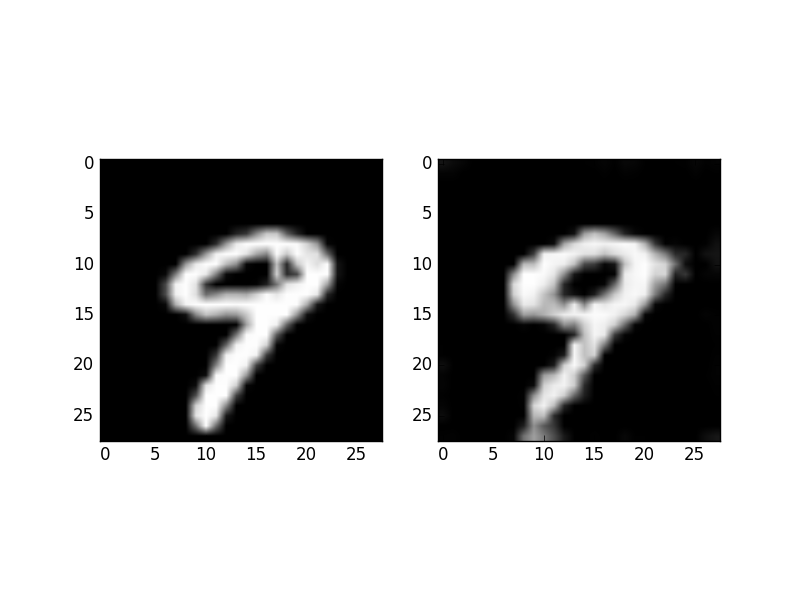
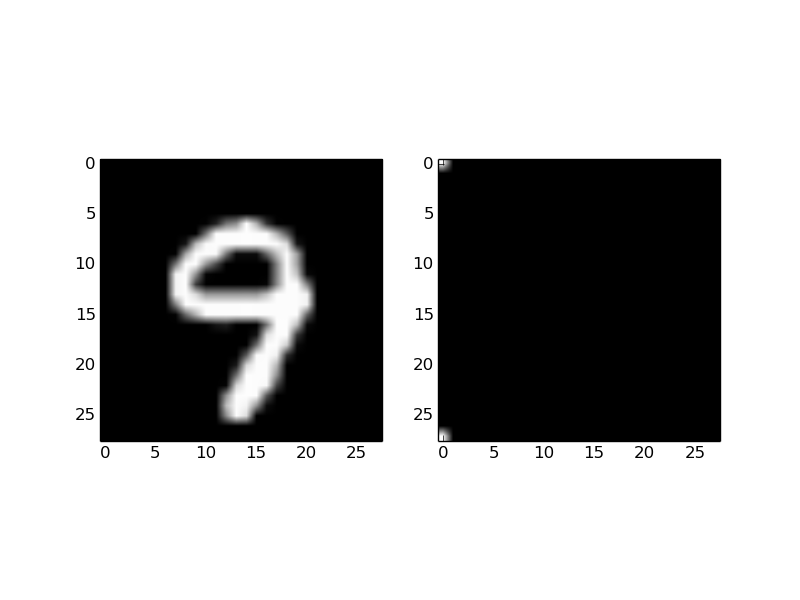
update

diff --git a/examples/autoencoder/autoencoder_other.py b/examples/autoencoder/autoencoder_other.py
@@ -1,0 +1,175 @@
+"""Tutorial on how to create a convolutional autoencoder w/ Tensorflow.
+
+Parag K. Mital, Jan 2016
+"""
+import tensorflow as tf
+import numpy as np
+import math
+from libs.activations import lrelu
+from libs.utils import corrupt
+
+
+# %%
+def autoencoder(input_shape=[None, 784],
+                n_filters=[1, 10, 10, 10],
+                filter_sizes=[3, 3, 3, 3],
+                corruption=False):
+    """Build a deep denoising autoencoder w/ tied weights.
+
+    Parameters
+    ----------
+    input_shape : list, optional
+        Description
+    n_filters : list, optional
+        Description
+    filter_sizes : list, optional
+        Description
+
+    Returns
+    -------
+    x : Tensor
+        Input placeholder to the network
+    z : Tensor
+        Inner-most latent representation
+    y : Tensor
+        Output reconstruction of the input
+    cost : Tensor
+        Overall cost to use for training
+
+    Raises
+    ------
+    ValueError
+        Description
+    """
+    # %%
+    # input to the network
+    x = tf.placeholder(
+        tf.float32, input_shape, name='x')
+
+
+    # %%
+    # ensure 2-d is converted to square tensor.
+    if len(x.get_shape()) == 2:
+        x_dim = np.sqrt(x.get_shape().as_list()[1])
+        if x_dim != int(x_dim):
+            raise ValueError('Unsupported input dimensions')
+        x_dim = int(x_dim)
+        x_tensor = tf.reshape(
+            x, [-1, x_dim, x_dim, n_filters[0]])
+    elif len(x.get_shape()) == 4:
+        x_tensor = x
+    else:
+        raise ValueError('Unsupported input dimensions')
+    current_input = x_tensor
+
+    # %%
+    # Optionally apply denoising autoencoder
+    if corruption:
+        current_input = corrupt(current_input)
+
+    # %%
+    # Build the encoder
+    encoder = []
+    shapes = []
+    for layer_i, n_output in enumerate(n_filters[1:]):
+        n_input = current_input.get_shape().as_list()[3]
+        shapes.append(current_input.get_shape().as_list())
+        W = tf.Variable(
+            tf.random_uniform([
+                filter_sizes[layer_i],
+                filter_sizes[layer_i],
+                n_input, n_output],
+                -1.0 / math.sqrt(n_input),
+                1.0 / math.sqrt(n_input)))
+        b = tf.Variable(tf.zeros([n_output]))
+        encoder.append(W)
+        output = lrelu(
+            tf.add(tf.nn.conv2d(
+                current_input, W, strides=[1, 2, 2, 1], padding='SAME'), b))
+        current_input = output
+
+    # %%
+    # store the latent representation
+    z = current_input
+    encoder.reverse()
+    shapes.reverse()
+
+    # %%
+    # Build the decoder using the same weights
+    for layer_i, shape in enumerate(shapes):
+        W = encoder[layer_i]
+        b = tf.Variable(tf.zeros([W.get_shape().as_list()[2]]))
+        output = lrelu(tf.add(
+            tf.nn.conv2d_transpose(
+                current_input, W,
+                tf.stack([tf.shape(x)[0], shape[1], shape[2], shape[3]]),
+                strides=[1, 2, 2, 1], padding='SAME'), b))
+        current_input = output
+
+    # %%
+    # now have the reconstruction through the network
+    y = current_input
+    # cost function measures pixel-wise difference
+    cost = tf.reduce_sum(tf.square(y - x_tensor))
+
+    # %%
+    return {'x': x, 'z': z, 'y': y, 'cost': cost}
+
+
+# %%
+def test_mnist():
+    """Test the convolutional autoencder using MNIST."""
+    # %%
+    import tensorflow as tf
+    import tensorflow.examples.tutorials.mnist.input_data as input_data
+    import matplotlib.pyplot as plt
+
+    # %%
+    # load MNIST as before
+    mnist = input_data.read_data_sets('MNIST_data', one_hot=True)
+    mean_img = np.mean(mnist.train.images, axis=0)
+    ae = autoencoder()
+
+    # %%
+    learning_rate = 0.01
+    optimizer = tf.train.AdamOptimizer(learning_rate).minimize(ae['cost'])
+
+    # %%
+    # We create a session to use the graph
+    sess = tf.Session()
+    sess.run(tf.global_variables_initializer())
+
+    # %%
+    # Fit all training data
+    batch_size = 100
+    n_epochs = 10
+    for epoch_i in range(n_epochs):
+        for batch_i in range(mnist.train.num_examples // batch_size):
+            batch_xs, _ = mnist.train.next_batch(batch_size)
+            train = np.array([img - mean_img for img in batch_xs])
+            sess.run(optimizer, feed_dict={ae['x']: train})
+        print(epoch_i, sess.run(ae['cost'], feed_dict={ae['x']: train}))
+
+    # %%
+    # Plot example reconstructions
+    n_examples = 10
+    test_xs, _ = mnist.test.next_batch(n_examples)
+    test_xs_norm = np.array([img - mean_img for img in test_xs])
+    recon = sess.run(ae['y'], feed_dict={ae['x']: test_xs_norm})
+    print(recon.shape)
+    fig, axs = plt.subplots(2, n_examples, figsize=(10, 2))
+    for example_i in range(n_examples):
+        axs[0][example_i].imshow(
+            np.reshape(test_xs[example_i, :], (28, 28)))
+        axs[1][example_i].imshow(
+            np.reshape(
+                np.reshape(recon[example_i, ...], (784,)) + mean_img,
+                (28, 28)))
+    fig.show()
+    plt.draw()
+    plt.waitforbuttonpress()
+
+
+# %%
+if __name__ == '__main__':
+    test_mnist()

diff --git a/assignments/style_transfer_starter/style_transfer.py b/assignments/style_transfer_starter/style_transfer.py
@@ -1,5 +1,4 @@
-""" An implementation of the paper "A Neural Algorithm of Artistic Style"
-by Gatys et al. in TensorFlow.
+""" An implementation of the paper "A Neural Algorithm of Artistic Style" by Gatys et al. in TensorFlow.
 
 Author: Chip Huyen (huyenn@stanford.edu)
 Prepared for the class CS 20SI: "TensorFlow for Deep Learning Research"
@@ -65,13 +64,21 @@ def _create_content_loss(p, f):
         the content loss
 
     """
-    pass
+    _, height, width, channel = p.shape
+    const_norm = height * width * channel
+
+    loss = tf.reduce_sum((p - f) ** 2) / (4 * const_norm)
+
+    return loss
+
 
 def _gram_matrix(F, N, M):
     """ Create and return the gram matrix for tensor F
         Hint: you'll first have to reshape F
     """
-    pass
+    F = tf.reshape(F, (M, N))
+    return tf.matmul(tf.transpose(F), F)
+
 
 def _single_style_loss(a, g):
     """ Calculate the style loss at a certain layer
@@ -85,7 +92,12 @@ def _single_style_loss(a, g):
         2. we'll use the same coefficient for style loss as in the paper
         3. a and g are feature representation, not gram matrices
     """
-    pass
+    N = a.shape[3]
+    M = a.shape[1] * a.shape[2]
+    A = _gram_matrix(a, N, M)
+    G = _gram_matrix(g, N, M)
+    return tf.reduce_sum((G - A) ** 2 / ((2 * N * M) ** 2))
+
 
 def _create_style_loss(A, model):
     """ Return the total style loss
@@ -95,8 +107,9 @@ def _create_style_loss(A, model):
     
     ###############################
     ## TO DO: return total style loss
-    pass
+    return sum([W[i] * E[i] for i in range(n_layers)])
     ###############################
+
 
 def _create_losses(model, input_image, content_image, style_image):
     with tf.variable_scope('loss') as scope:
@@ -113,6 +126,9 @@ def _create_losses(model, input_image, content_image, style_image):
         ##########################################
         ## TO DO: create total loss. 
         ## Hint: don't forget the content loss and style loss weights
+        alpha = 0.01
+        beta = alpha * 1
+        total_loss = alpha * content_loss + beta * style_loss
         
         ##########################################
 
@@ -122,7 +138,15 @@ def _create_summary(model):
     """ Create summary ops necessary
         Hint: don't forget to merge them
     """
-    pass
+    with tf.name_scope('summaries'):
+        tf.summary.scalar('content loss', model['content_loss'])
+        tf.summary.scalar('style loss', model['style_loss'])
+        tf.summary.scalar('total loss', model['total_loss'])
+        tf.summary.histogram('histogram content loss', model['content_loss'])
+        tf.summary.histogram('histogram style loss', model['style_loss'])
+        tf.summary.histogram('histogram total loss', model['total_loss'])
+        return tf.summary.merge_all()
+
 
 def train(model, generated_image, initial_image):
     """ Train your model.
@@ -135,13 +159,17 @@ def train(model, generated_image, initial_image):
         ## TO DO: 
         ## 1. initialize your variables
         ## 2. create writer to write your graph
+        saver = tf.train.Saver()
+        sess.run(tf.global_variables_initializer())
+        writer = tf.summary.FileWriter('./graph/style_transfer', sess.graph)
         ###############################
+
         sess.run(generated_image.assign(initial_image))
         ckpt = tf.train.get_checkpoint_state(os.path.dirname('checkpoints/checkpoint'))
         if ckpt and ckpt.model_checkpoint_path:
             saver.restore(sess, ckpt.model_checkpoint_path)
         initial_step = model['global_step'].eval()
-        
+
         start_time = time.time()
         for index in range(initial_step, ITERS):
             if index >= 5 and index < 20:
@@ -153,6 +181,9 @@ def train(model, generated_image, initial_image):
             if (index + 1) % skip_step == 0:
                 ###############################
                 ## TO DO: obtain generated image and loss
+                gen_image, total_loss, summary = sess.run([generated_image,
+                                                           model['total_loss'],
+                                                           model['summary_op']])
 
                 ###############################
                 gen_image = gen_image + MEAN_PIXELS
@@ -189,7 +220,8 @@ def main():
                                                     input_image, content_image, style_image)
     ###############################
     ## TO DO: create optimizer
-    ## model['optimizer'] = ...
+    model['optimizer'] = tf.train.AdamOptimizer(LR).minimize(model['total_loss'],
+                                                             global_step=model['global_step'])
     ###############################
     model['summary_op'] = _create_summary(model)
 

diff --git a/examples/autoencoder/autoencoder.py b/examples/autoencoder/autoencoder.py
@@ -63,7 +63,7 @@ def decoder(input):
 
     # Deconv 1: filter: [3, 3, 8], stride: [2, 2], relu
     with tf.variable_scope('deconv1') as scope:
-        output_shape = get_deconv2d_output_dims([-1, 4, 4, 8], [3, 3, 8], [2, 2], padding='SAME')
+        output_shape = get_deconv2d_output_dims([fc.get_shape()[0].value, 4, 4, 8], [3, 3, 8], [2, 2], padding='SAME')
         kernels = tf.get_variable('weights', [3, 3, 8, 8],
                                   initializer=tf.truncated_normal_initializer())
         biases = tf.get_variable('biases', [8],
@@ -74,8 +74,8 @@ def decoder(input):
     
     # Deconv 2: filter: [8, 8, 1], stride: [2, 2], padding: valid, relu
     with tf.variable_scope('deconv2') as scope:
-        output_shape = get_deconv2d_output_dims(deconv1.get_shape(), [8, 8, 1], [2, 2], padding='VALID')
-        kernels = tf.get_variable('weights', [8, 8, 8, 1],
+        output_shape = get_deconv2d_output_dims(output_shape, [8, 8, 1], [2, 2], padding='VALID')
+        kernels = tf.get_variable('weights', [8, 8, 1, 8],
                                   initializer=tf.truncated_normal_initializer())
         biases = tf.get_variable('biases', [1],
                                  initializer=tf.random_normal_initializer())
@@ -85,7 +85,7 @@ def decoder(input):
     
     # Deconv 3: filter: [7, 7, 1], stride: [1, 1], padding: valid, sigmoid
     with tf.variable_scope('deconv3') as scope:
-        output_shape = get_deconv2d_output_dims(deconv2.get_shape(), [7, 7, 1], [2, 2], padding='VALID')
+        output_shape = get_deconv2d_output_dims(output_shape, [7, 7, 1], [1, 1], padding='VALID')
         kernels = tf.get_variable('weights', [7, 7, 1, 1],
                                   initializer=tf.truncated_normal_initializer())
         biasis = tf.get_variable('biases', [1],

diff --git a/examples/deepdream/deepdream_solution.py b/examples/deepdream/deepdream_solution.py
@@ -15,6 +15,8 @@ import numpy as np
 import PIL.Image
 
 import tensorflow as tf
+from tensorflow.python.platform import gfile
+from six.moves import urllib
 
 FLAGS = tf.app.flags.FLAGS
 
@@ -50,8 +52,19 @@ def maybe_download(data_dir):
   url = ('https://storage.googleapis.com/download.tensorflow.org/models/'
          'inception5h.zip')
   basename = 'inception5h.zip'
-  local_file = tf.contrib.learn.python.learn.datasets.base.maybe_download(
-      basename, data_dir, url)
+
+  if not gfile.Exists(data_dir):
+    gfile.MakeDirs(data_dir)
+  filepath = os.path.join(data_dir, basename)
+  if not gfile.Exists(basename):
+    temp_file_name, _ = urllib.request.urlretrieve(url)
+    gfile.Copy(temp_file_name, filepath)
+    with gfile.GFile(filepath) as f:
+      size = f.size()
+    print('Successfully downloaded', basename, size, 'bytes.')
+  local_file = filepath
+
+  #local_file = tf.contrib.learn.python.learn.datasets.base.maybe_download( basename, data_dir, url)
 
   # Uncompress the pretrained Inception network.
   print('Extracting', local_file)

diff --git a/assignments/style_transfer_starter/vgg_model.py b/assignments/style_transfer_starter/vgg_model.py
@@ -41,7 +41,14 @@ def _conv2d_relu(vgg_layers, prev_layer, layer, layer_name):
     Hint for choosing strides size: 
         for small images, you probably don't want to skip any pixel
     """
-    pass
+    with tf.variable_scope(layer_name) as scope:
+        W, b = _weights(vgg_layers, layer, layer_name)
+        W = tf.constant(W, name='weights')
+        b = tf.constant(b, name='bias')
+        conv = tf.nn.conv2d(prev_layer, W, strides=[1, 1, 1, 1], padding='SAME')
+        conv1 = tf.nn.relu(conv + b, name=scope.name)
+        return conv1
+
 
 def _avgpool(prev_layer):
     """ Return the average pooling layer. The paper suggests that average pooling
@@ -53,7 +60,7 @@ def _avgpool(prev_layer):
         the output of the tf.nn.avg_pool() function.
     Hint for choosing strides and kszie: choose what you feel appropriate
     """
-    pass
+    return tf.nn.avg_pool(prev_layer, ksize=[1, 2, 2, 1], strides=[1, 2, 2, 1], padding='SAME', name='avg_pool')
 
 def load_vgg(path, input_image):
     """ Load VGG into a TensorFlow model.

diff --git a/examples/autoencoder/train.py b/examples/autoencoder/train.py
@@ -7,12 +7,12 @@ batch_size = 100
 batch_shape = (batch_size, 28, 28, 1)
 num_visualize = 10
 
-lr = 0.01
+lr = 0.001
 num_epochs = 50
 
 def calculate_loss(original, reconstructed):
-    return tf.div(tf.reduce_sum(tf.square(tf.sub(reconstructed,
-                                                 original))), 
+    return tf.div(tf.reduce_sum(tf.square(tf.subtract(reconstructed,
+                                                      original))),
                   tf.constant(float(batch_size)))
 
 def train(dataset):
